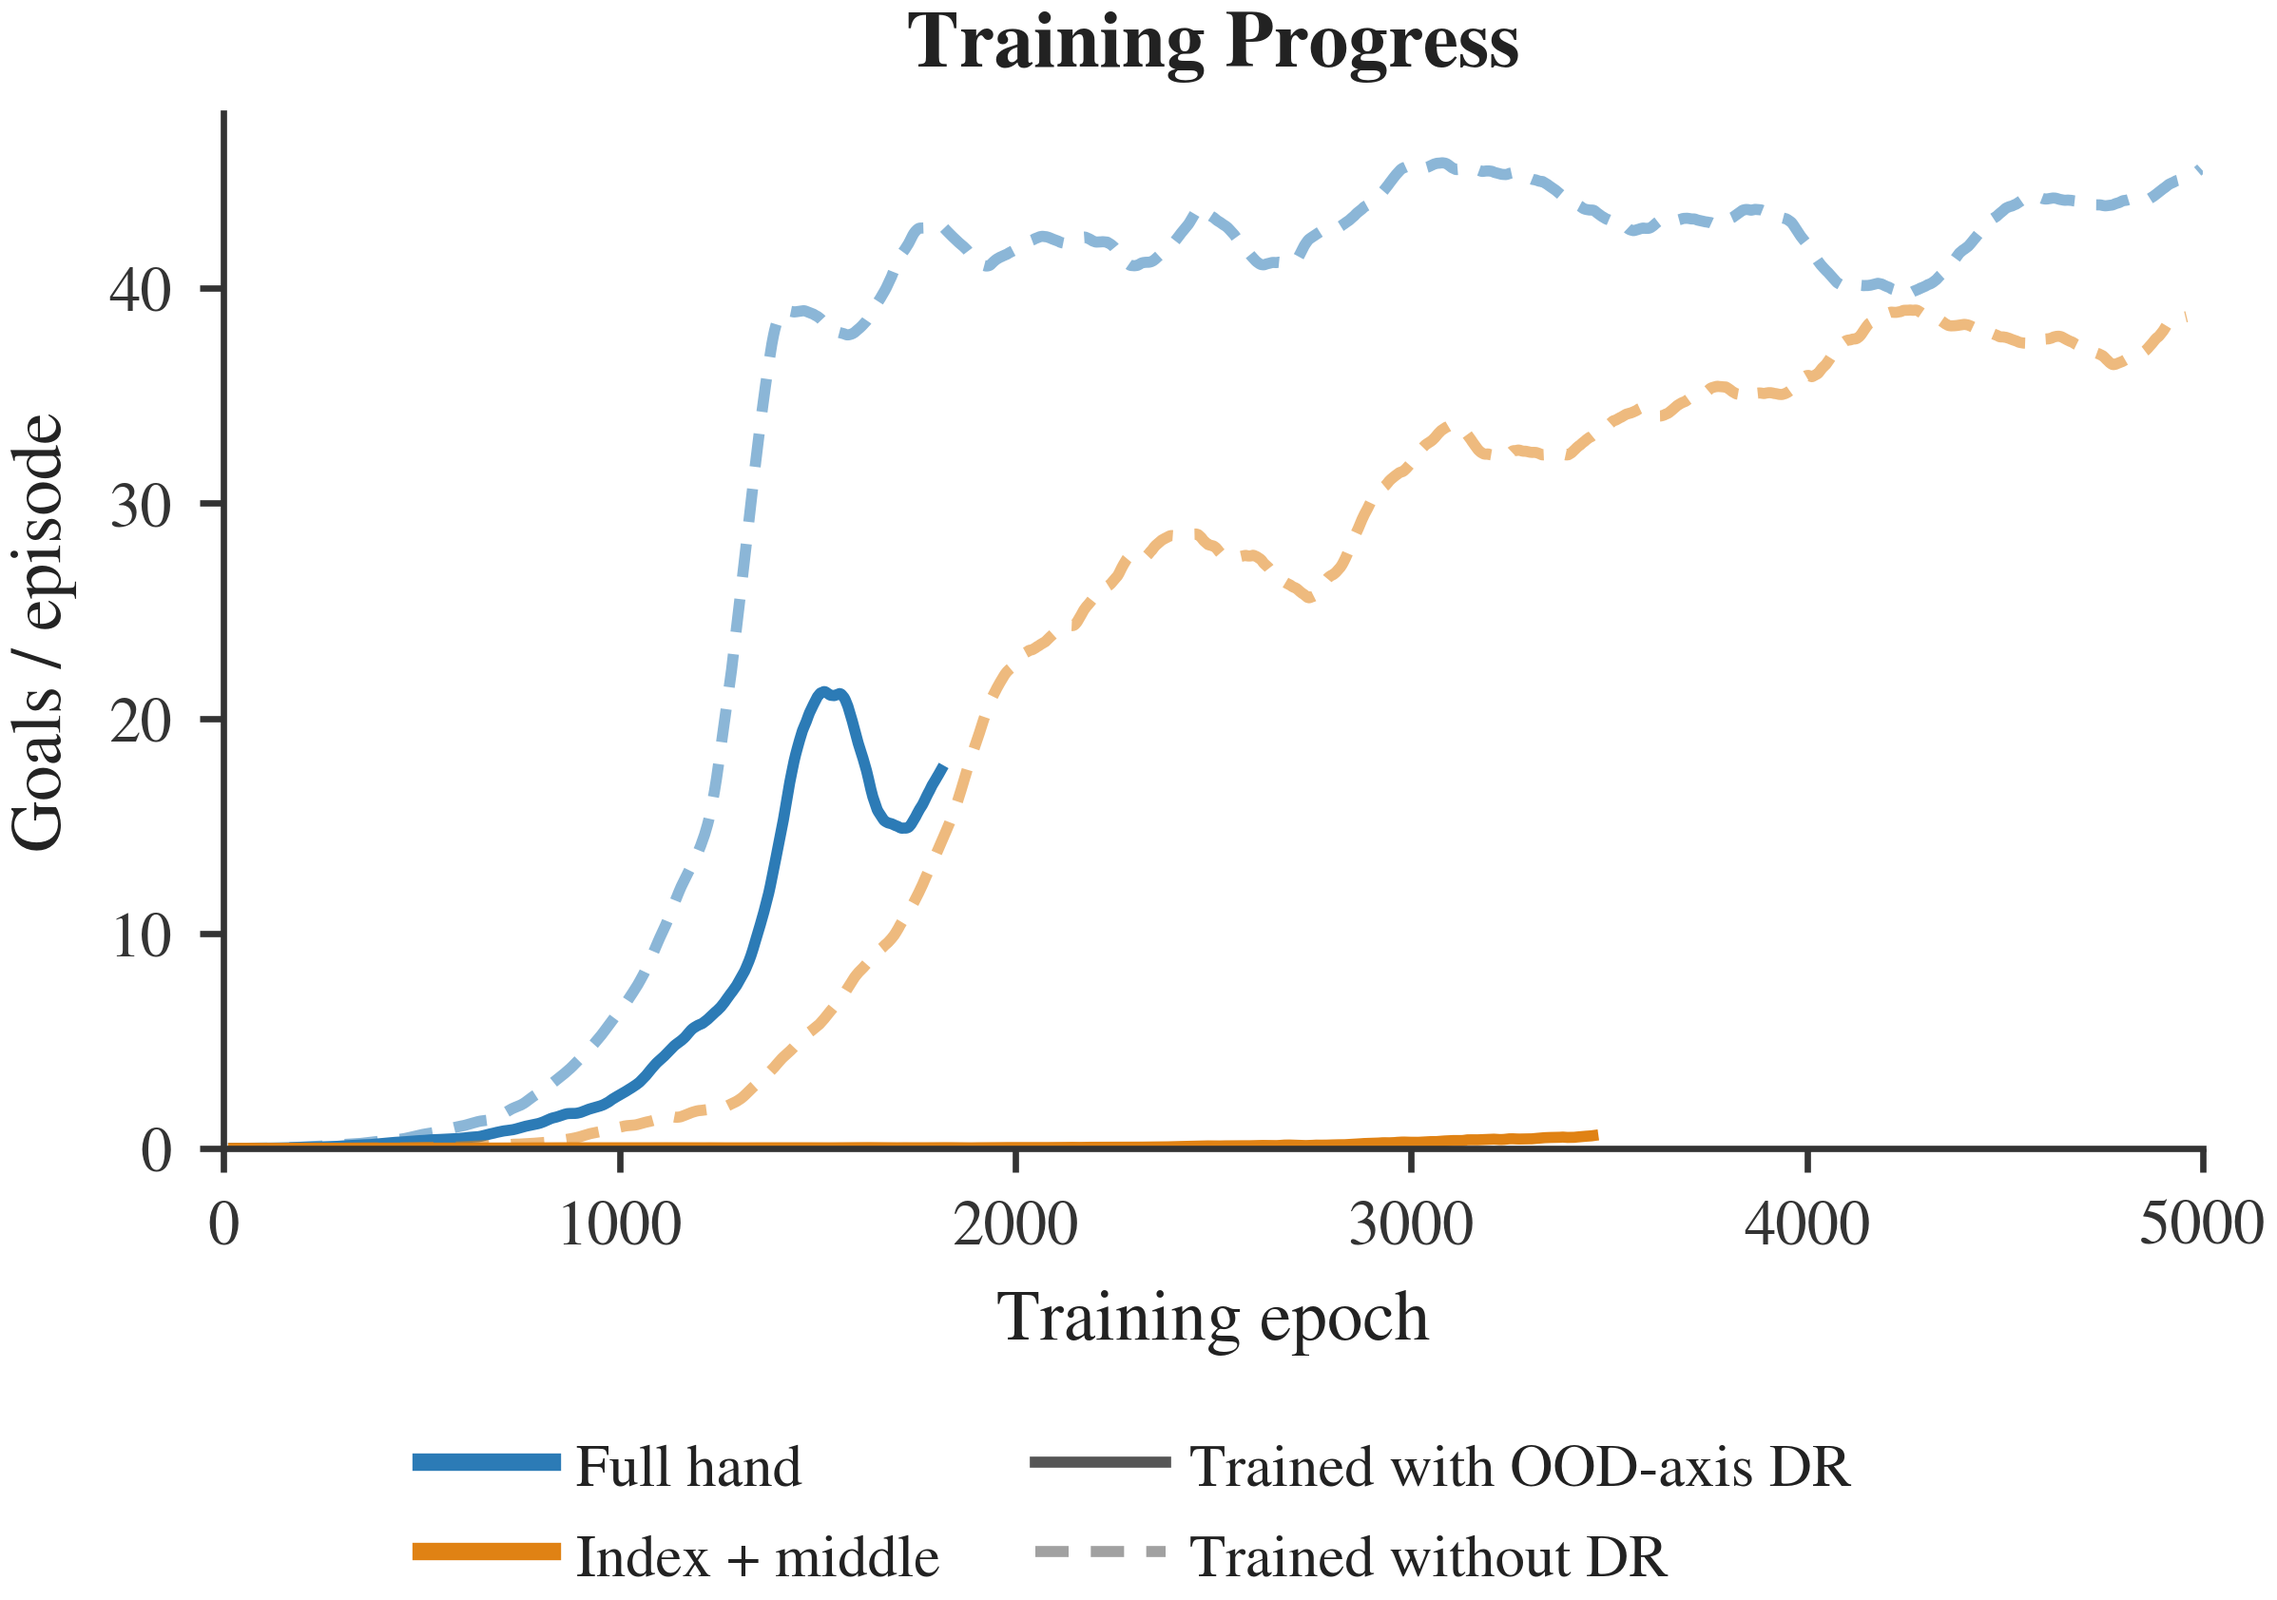
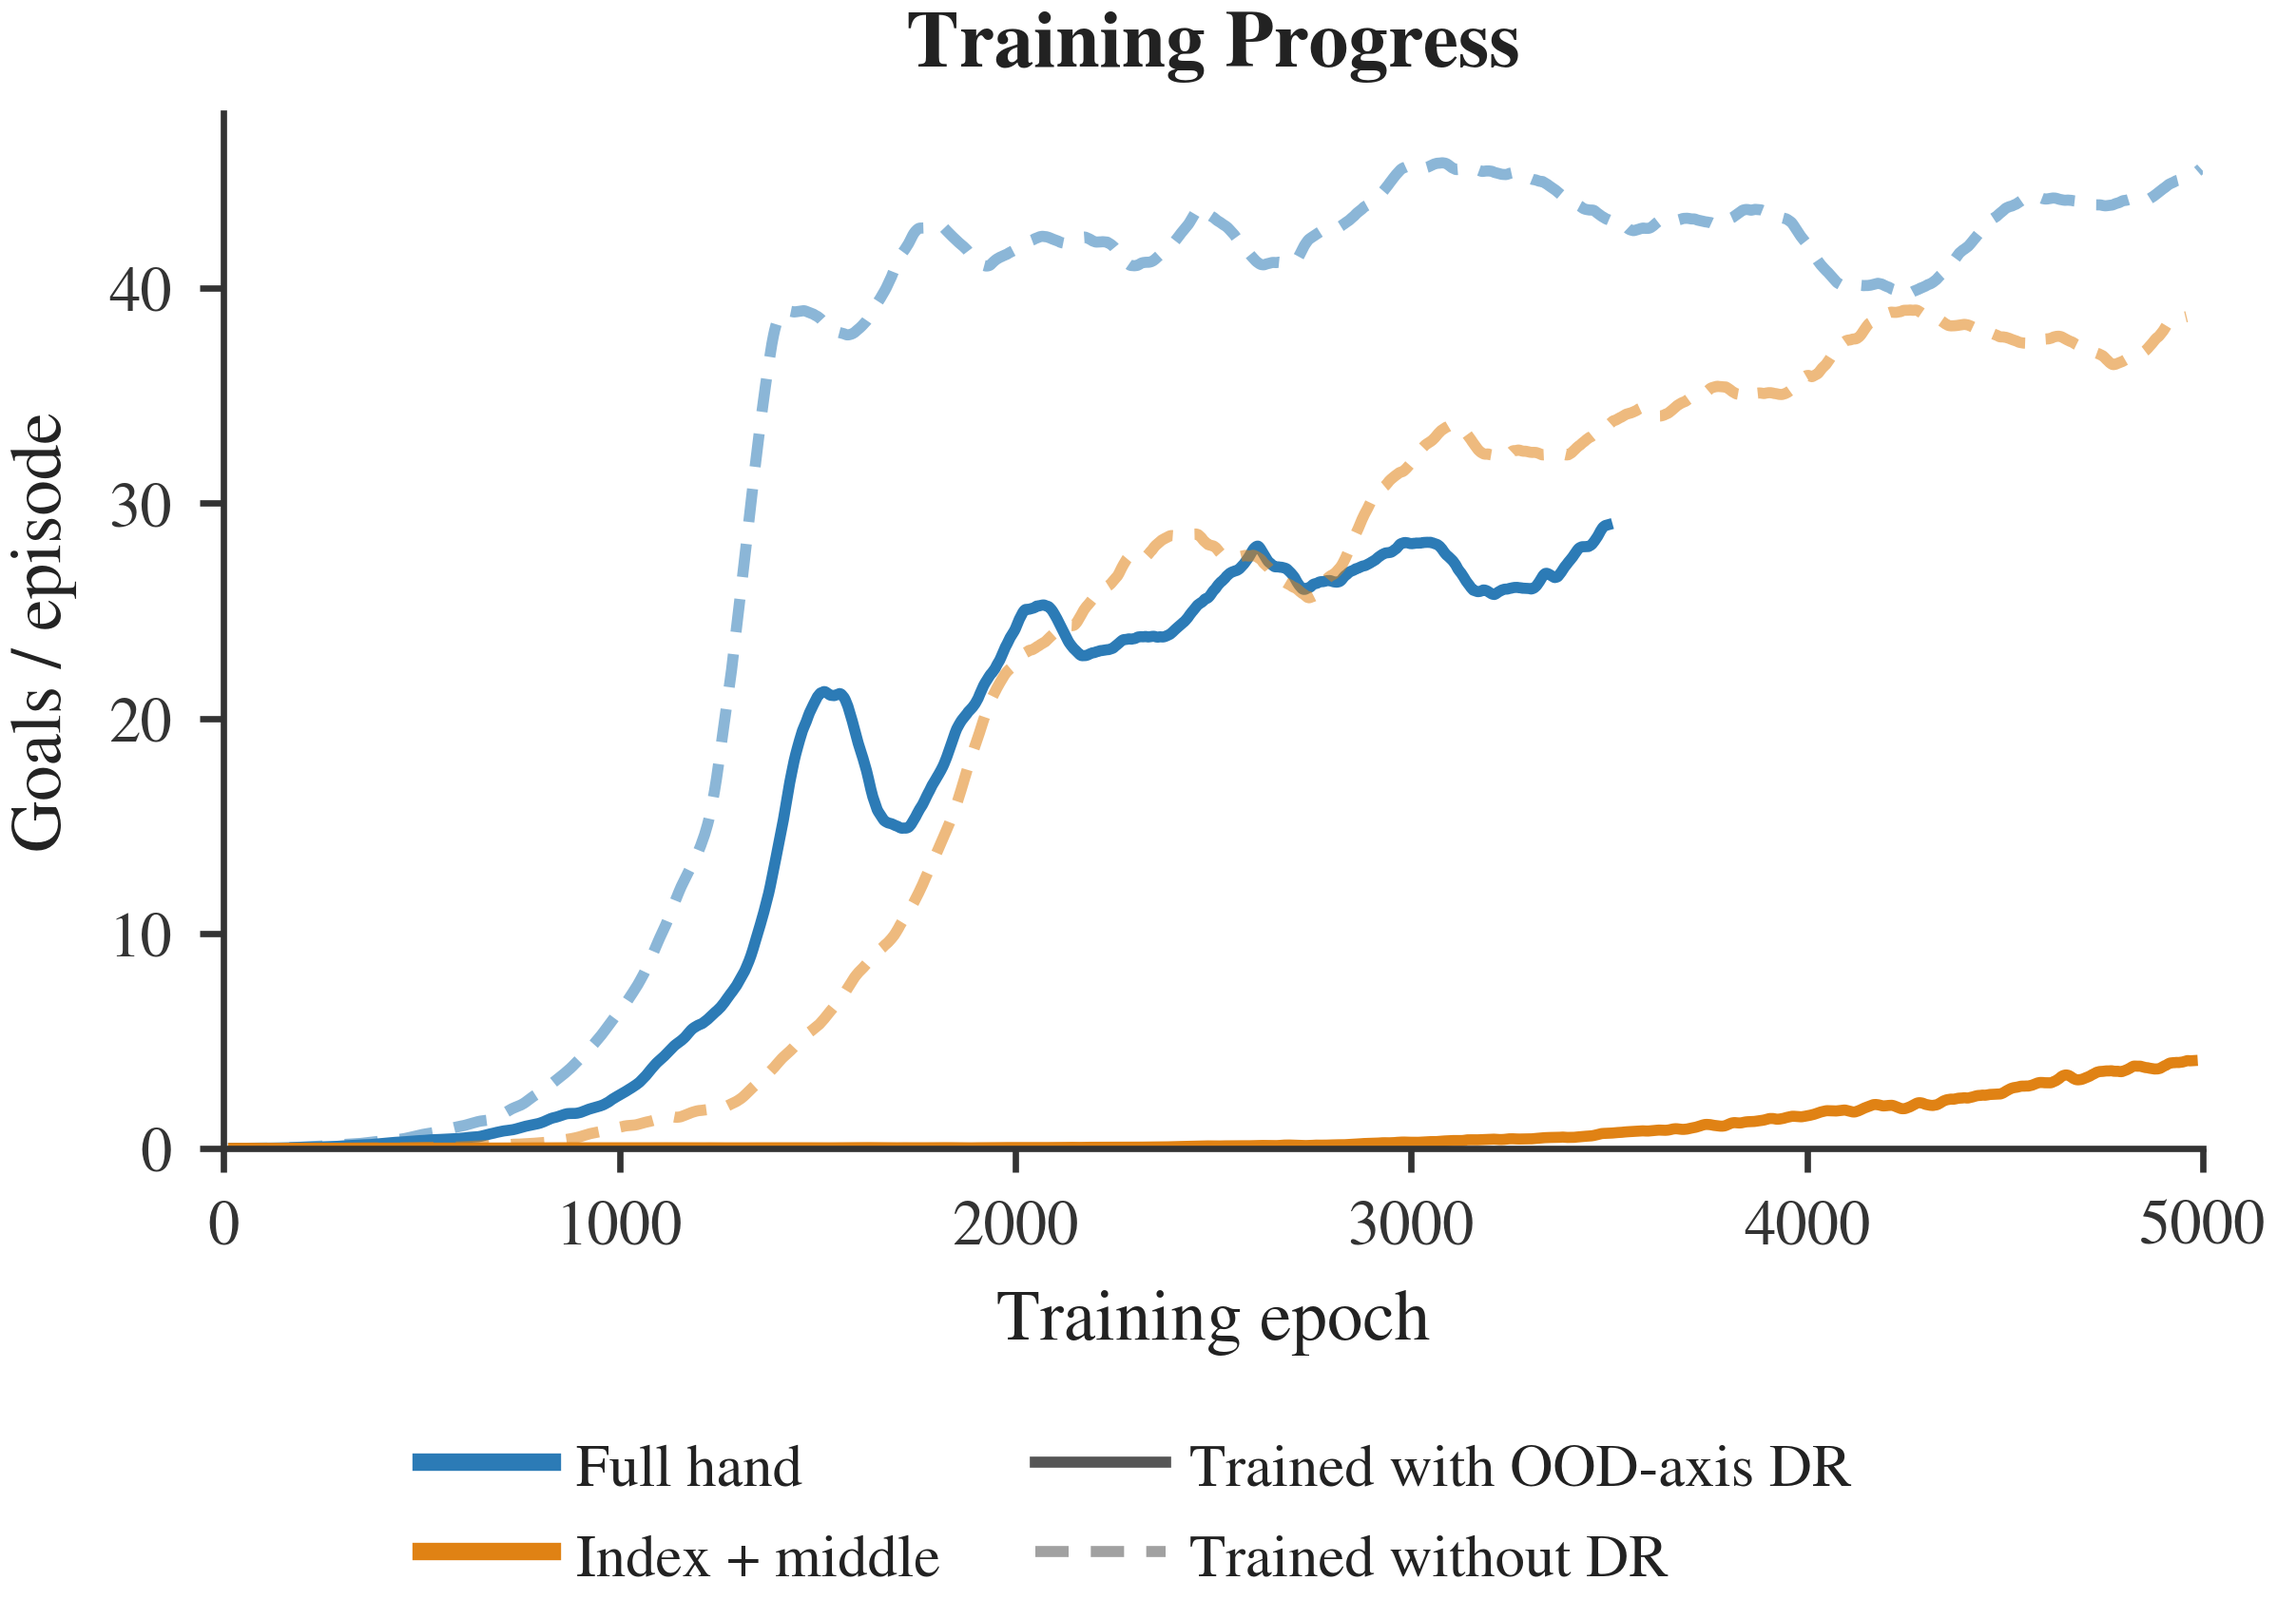
plots: h4 index_middle (E4 vs T1) and h5 index_middle (D2 vs M2) with README findings
Claude-Session: https://claude.ai/code/session_01VEjfLD7vkNCwPYPC2HsL71

diff --git a/experiments/08oct_repro_wuji_full/plots/README.md b/experiments/08oct_repro_wuji_full/plots/README.md
@@ -65,6 +65,25 @@ identical settings. These are final checkpoints (epoch 5000), 1 seed each.
   the palm tilted forward. So multi-embodiment training changes which perturbations the policy tolerates; it does not
   make it robust across the board. This needs more seeds before it counts as a finding.
 - `index_middle.png` pairs the policy for the 40 hands with 2 or 3 fingers (E4) with an index + middle specialist
-  (make_runs.py T1), both with action delay: EMA 0.1 + action delay, 24k envs, 5 mini-epochs. Both are training on
-  9 Oct, and the figure is drawn when both finish. The 6 Oct 52-hand policy is weak on this hand everywhere (9 goals
-  per episode at the training condition), so it isn't a useful comparison here.
+  (make_runs.py T1), both with action delay: EMA 0.1 + action delay, 24k envs, 5 mini-epochs. The 40-hand policy has
+  not learned this hand: 0.7 goals per episode at the training condition and at most 1.2 anywhere. The specialist
+  scores 13 there. The figure therefore says nothing about robustness. E4 was still improving at epoch 5000
+  (2.2 goals per episode over all 40 hands); it needs longer training before this comparison can be made. The 6 Oct
+  52-hand policy is weak on this hand everywhere (9 goals per episode at the training condition), so it isn't a useful
+  comparison either.
+
+## H5: domain randomisation over the OOD axes (`h5_dr_on_ood_axes/`)
+
+The same MLP recipe, trained with every OOD axis randomised over the middle of its sweep: push 0-1.5 N, friction
+0.25-1.0, object mass 15-250 g and hand tilt -5 to 15 deg, each sampled per episode. Tilt is emulated with a constant
+force on the object; it moves a cube on a still hand the same way a really tilted hand does. Baselines are the no-DR
+runs above (3 seeds); the DR runs are 1 seed. The evaluation turns the DR off and changes one axis at a time.
+
+`training_progress.png`: goals per episode during training. The DR runs are scored under their own randomisation, so
+their curves are not on the same footing as the no-DR ones.
+
+- `index_middle.png`: the DR policy is weaker everywhere inside the training range. It scores 13 goals per episode at
+  the training condition against 31, and on push, light objects and heavy objects it stays below the no-DR policy.
+  It is at or above the no-DR policy only where both are weak: friction 1.0 (7 vs 6) and 1.5 (5 vs 3), and tilt -10
+  deg (3 vs 2). Within the randomised ranges, index + middle trained with DR is worse than without DR.
+- `full_hand.png`: the full-hand DR run (135615) finishes training around 7 pm on 9 Oct; drawn once its sweep lands.
